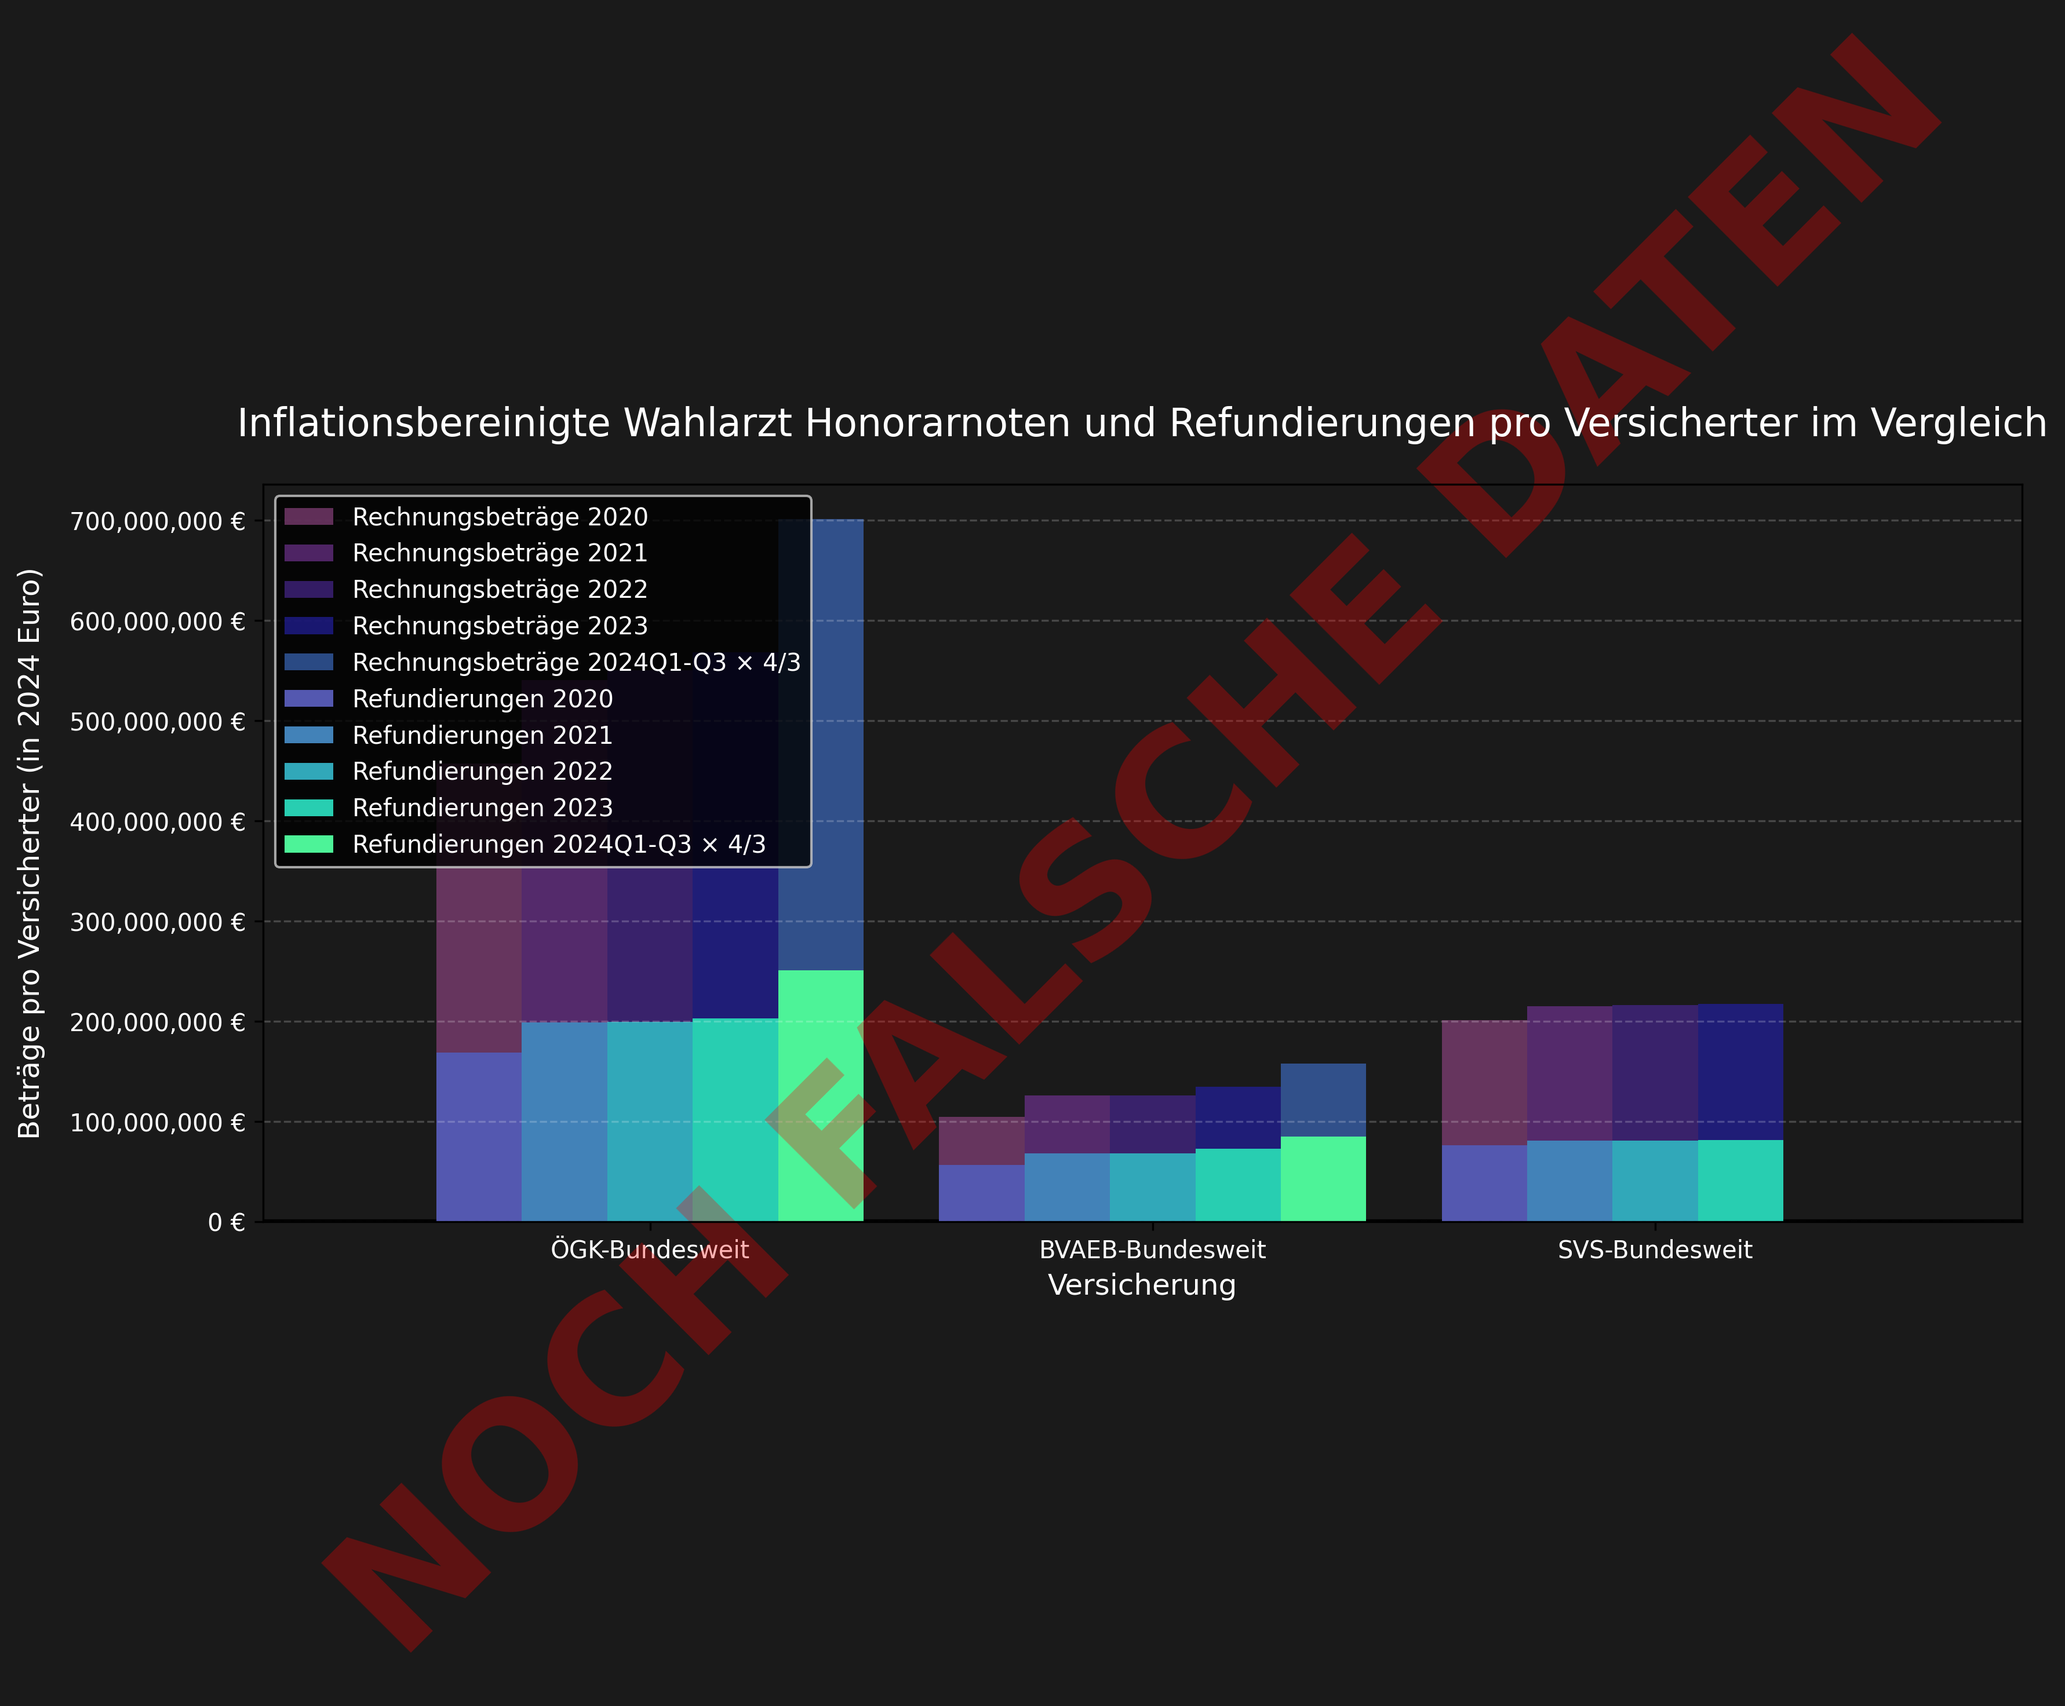
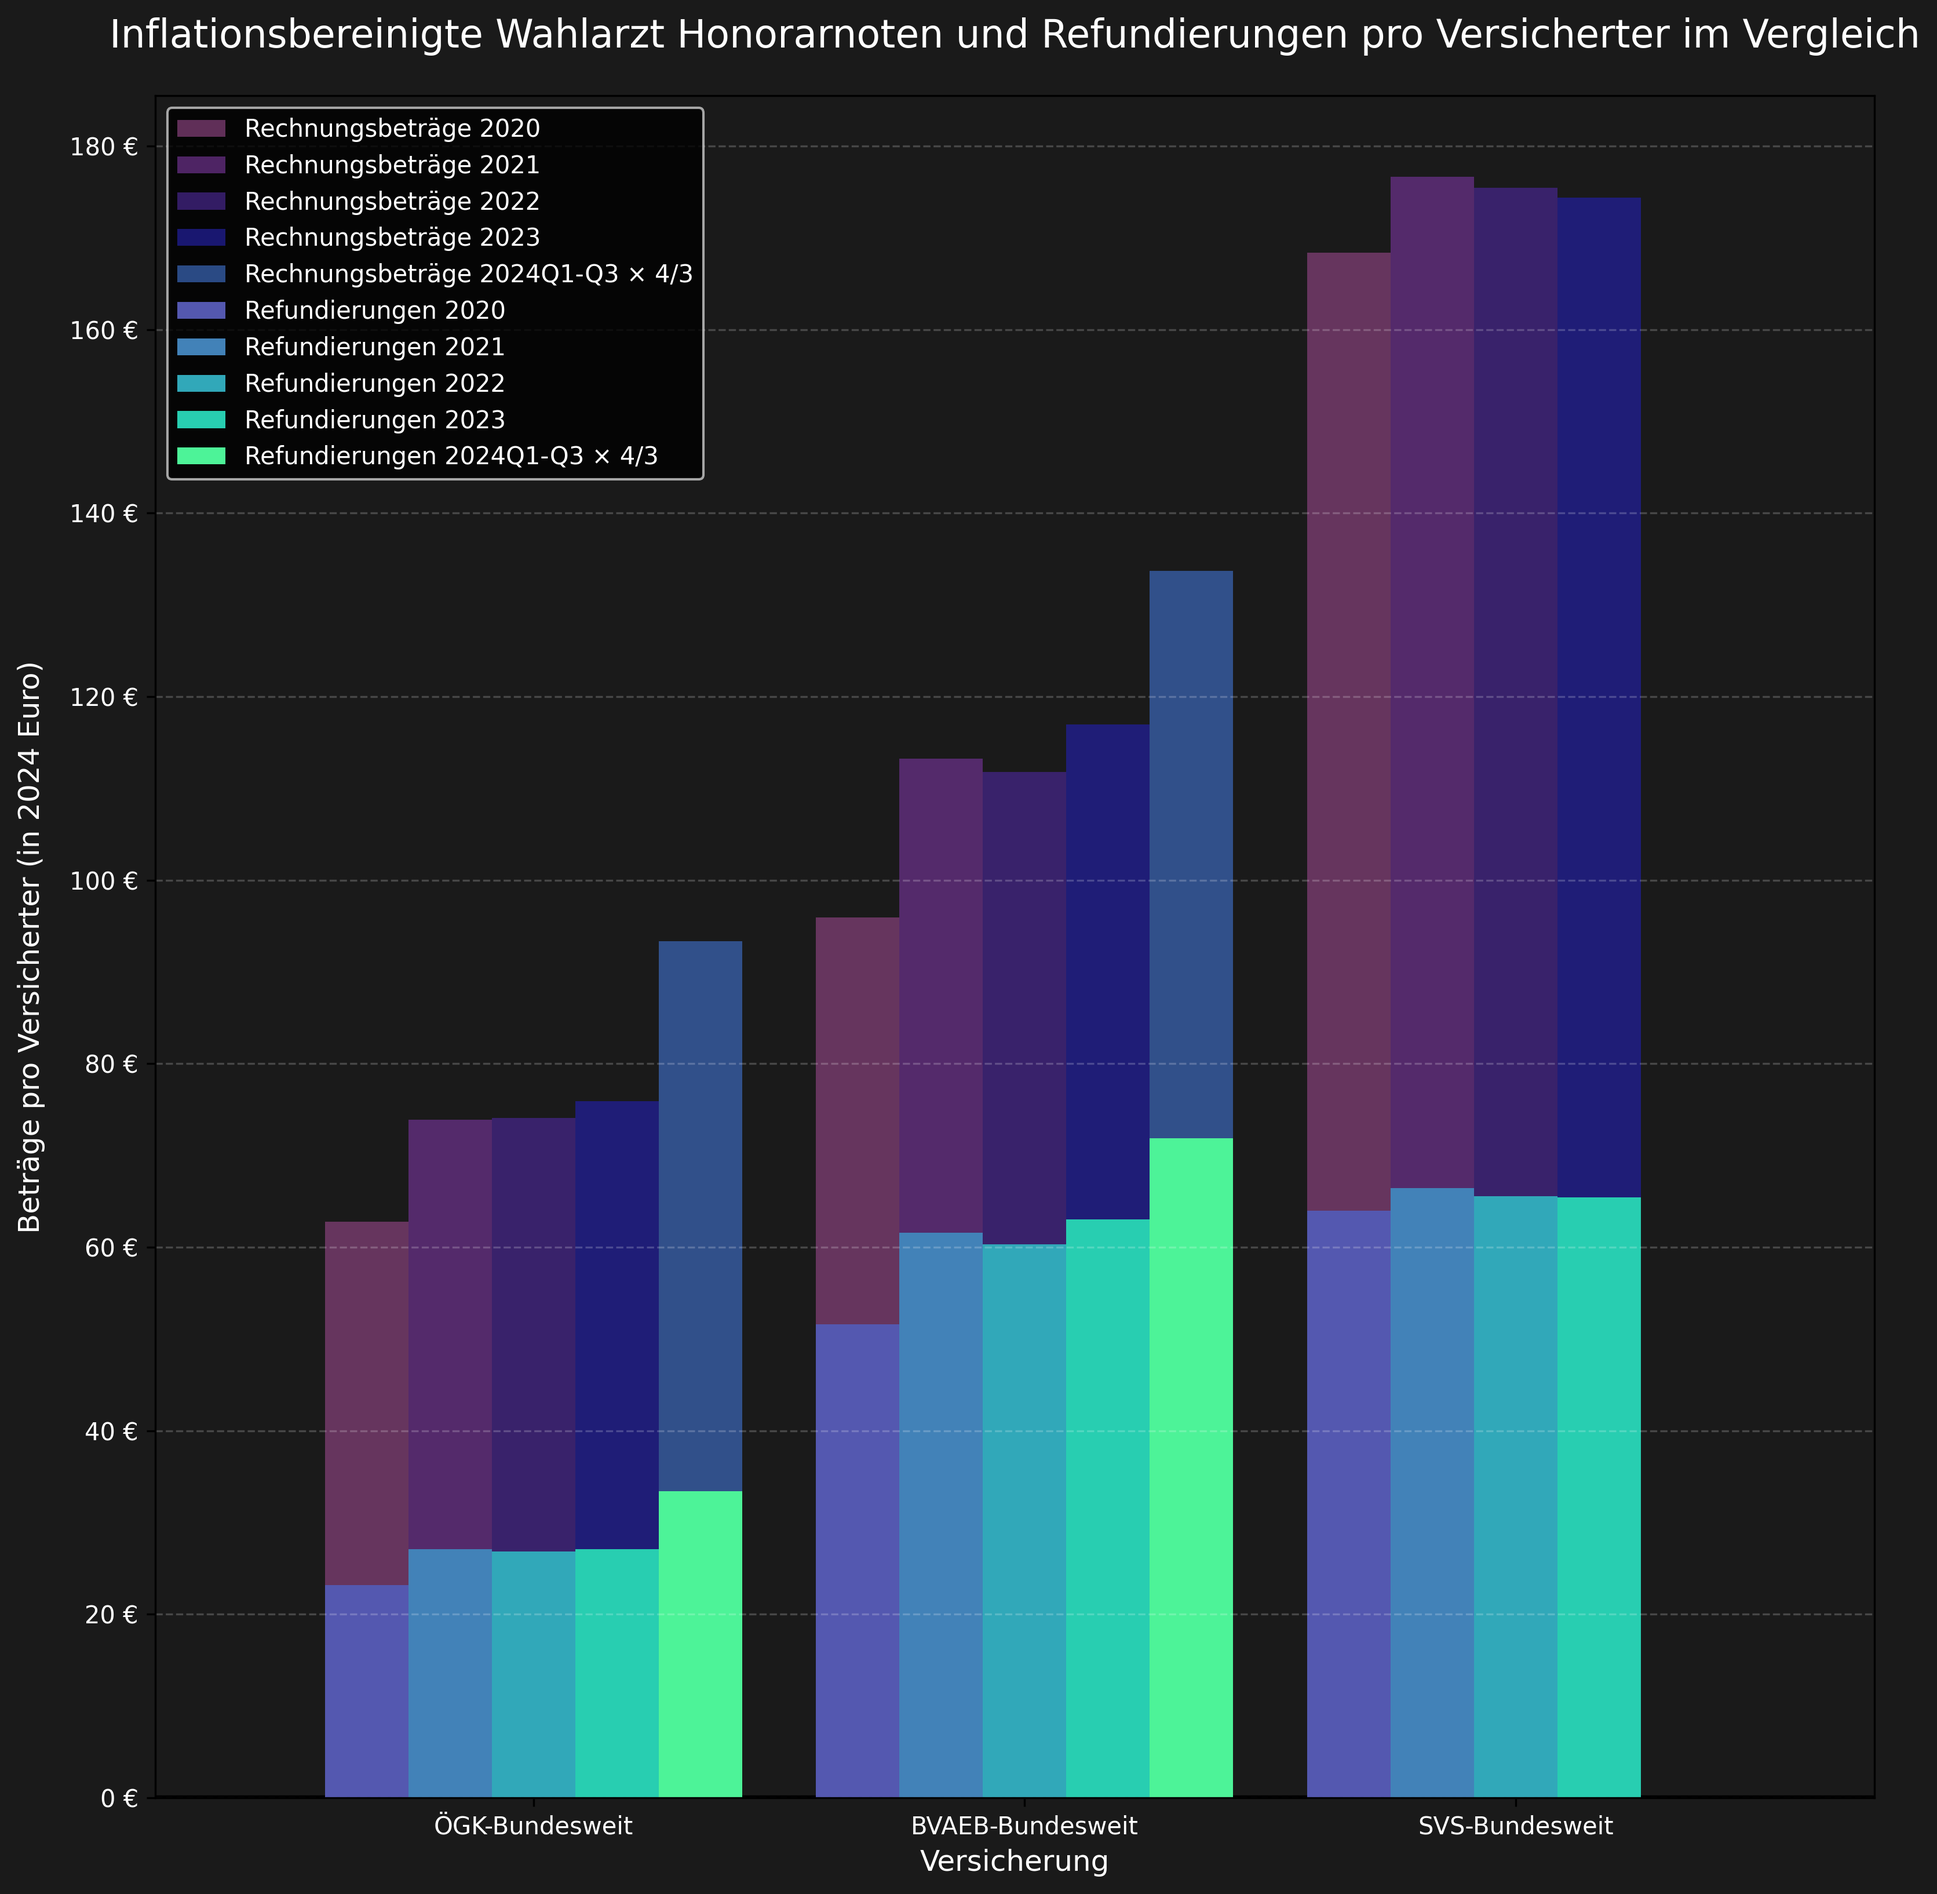
99% finished this plot

diff --git a/visualize/plot_insurance_comparison_weighted.py b/visualize/plot_insurance_comparison_weighted.py
@@ -26,202 +26,74 @@ VPI_DATA = {
     "2025": 136.8,
 }
 
+# All data from the respective Jahresergebnisse__.xlsx files.
 # Insured population data for each insurance provider
 INSURED_POPULATION = {
     "BVAEB": {
         "2020": {
-            "Wien": 174141,
-            "NÖ": 295949,
-            "Bgld": 49829,
-            "OÖ": 88499,
-            "Stmk": 198221,
-            "Ktn": 89240,
-            "Sbg": 87638,
-            "Tirol": 126532,
-            "Vbg": 54439,
-            "Gesamt": 1171842,
+            "Gesamt": 1091751,
         },
         "2021": {
-            "Wien": 174141,
-            "NÖ": 295949,
-            "Bgld": 49829,
-            "OÖ": 88499,
-            "Stmk": 198221,
-            "Ktn": 89240,
-            "Sbg": 87638,
-            "Tirol": 126532,
-            "Vbg": 54439,
-            "Gesamt": 1171842,
+            "Gesamt": 1109636,
         },
         "2022": {
-            "Wien": 174141,
-            "NÖ": 295949,
-            "Bgld": 49829,
-            "OÖ": 88499,
-            "Stmk": 198221,
-            "Ktn": 89240,
-            "Sbg": 87638,
-            "Tirol": 126532,
-            "Vbg": 54439,
-            "Gesamt": 1171842,
+            "Gesamt": 1128466,
         },
         "2023": {
-            "Wien": 174141,
-            "NÖ": 295949,
-            "Bgld": 49829,
-            "OÖ": 88499,
-            "Stmk": 198221,
-            "Ktn": 89240,
-            "Sbg": 87638,
-            "Tirol": 126532,
-            "Vbg": 54439,
-            "Gesamt": 1171842,
+            "Gesamt": 1150006,
         },
         "2024": {
-            "Wien": 174141,
-            "NÖ": 295949,
-            "Bgld": 49829,
-            "OÖ": 88499,
-            "Stmk": 198221,
-            "Ktn": 89240,
-            "Sbg": 87638,
-            "Tirol": 126532,
-            "Vbg": 54439,
-            "Gesamt": 1171842,
+            "Gesamt": 1177976,
         },
-        "2024Q1-Q3": lambda: {k: int(v) for k, v in INSURED_POPULATION["BVAEB"]["2024"].items()},
+        "2024Q1-Q3": lambda: {
+            k: int(v) for k, v in INSURED_POPULATION["BVAEB"]["2024"].items()
+        },
         "2025": lambda: {
             k: int(v * 1.008) for k, v in INSURED_POPULATION["BVAEB"]["2024"]().items()
         },
     },
     "ÖGK": {
         "2020": {
-            "Wien": 1733348,
-            "NÖ": 1245744,
-            "Bgld": 214327,
-            "OÖ": 1261102,
-            "Stmk": 997453,
-            "Ktn": 435932,
-            "Sbg": 466544,
-            "Tirol": 594466,
-            "Vbg": 329658,
             "Gesamt": 7278574,
         },
         "2021": {
-            "Wien": 1743335,
-            "NÖ": 1253590,
-            "Bgld": 217175,
-            "OÖ": 1269008,
-            "Stmk": 1002900,
-            "Ktn": 438725,
-            "Sbg": 466215,
-            "Tirol": 593720,
-            "Vbg": 329767,
             "Gesamt": 7314435,
         },
         "2022": {
-            "Wien": 1771026,
-            "NÖ": 1273182,
-            "Bgld": 221330,
-            "OÖ": 1284447,
-            "Stmk": 1015347,
-            "Ktn": 441801,
-            "Sbg": 474520,
-            "Tirol": 604751,
-            "Vbg": 333178,
             "Gesamt": 7419582,
         },
         "2023": {
-            "Wien": 1802340,
-            "NÖ": 1278271,
-            "Bgld": 223529,
-            "OÖ": 1292594,
-            "Stmk": 1020869,
-            "Ktn": 443213,
-            "Sbg": 478351,
-            "Tirol": 610168,
-            "Vbg": 335023,
             "Gesamt": 7484358,
         },
         "2024": {
-            "Wien": 1825483,
-            "NÖ": 1276395,
-            "Bgld": 223412,
-            "OÖ": 1292343,
-            "Stmk": 1021741,
-            "Ktn": 442232,
-            "Sbg": 479094,
-            "Tirol": 611390,
-            "Vbg": 334669,
             "Gesamt": 7506759,
         },
-        "2024Q1-Q3": lambda: {k: int(v) for k, v in INSURED_POPULATION["ÖGK"]["2024"].items()},
+        "2024Q1-Q3": lambda: {
+            k: int(v) for k, v in INSURED_POPULATION["ÖGK"]["2024"].items()
+        },
         "2025": lambda: {
             k: int(v * 1.008) for k, v in INSURED_POPULATION["ÖGK"]["2024"]().items()
         },
     },
     "SVS": {
         "2020": {
-            "Wien": 174141,
-            "NÖ": 295949,
-            "Bgld": 49829,
-            "OÖ": 88499,
-            "Stmk": 198221,
-            "Ktn": 89240,
-            "Sbg": 87638,
-            "Tirol": 126532,
-            "Vbg": 54439,
-            "Gesamt": 1171842,
+            "Gesamt": 1193401,
         },
         "2021": {
-            "Wien": 174141,
-            "NÖ": 295949,
-            "Bgld": 49829,
-            "OÖ": 88499,
-            "Stmk": 198221,
-            "Ktn": 89240,
-            "Sbg": 87638,
-            "Tirol": 126532,
-            "Vbg": 54439,
-            "Gesamt": 1171842,
+            "Gesamt": 1216431,
         },
         "2022": {
-            "Wien": 174141,
-            "NÖ": 295949,
-            "Bgld": 49829,
-            "OÖ": 88499,
-            "Stmk": 198221,
-            "Ktn": 89240,
-            "Sbg": 87638,
-            "Tirol": 126532,
-            "Vbg": 54439,
-            "Gesamt": 1171842,
+            "Gesamt": 1233186,
         },
         "2023": {
-            "Wien": 174141,
-            "NÖ": 295949,
-            "Bgld": 49829,
-            "OÖ": 88499,
-            "Stmk": 198221,
-            "Ktn": 89240,
-            "Sbg": 87638,
-            "Tirol": 126532,
-            "Vbg": 54439,
-            "Gesamt": 1171842,
+            "Gesamt": 1247231,
         },
         "2024": {
-            "Wien": 174141,
-            "NÖ": 295949,
-            "Bgld": 49829,
-            "OÖ": 88499,
-            "Stmk": 198221,
-            "Ktn": 89240,
-            "Sbg": 87638,
-            "Tirol": 126532,
-            "Vbg": 54439,
-            "Gesamt": 1171842,
+            "Gesamt": 1260118,
         },
-        "2024Q1-Q3": lambda: {k: int(v) for k, v in INSURED_POPULATION["SVS"]["2024"].items()},
+        "2024Q1-Q3": lambda: {
+            k: int(v) for k, v in INSURED_POPULATION["SVS"]["2024"].items()
+        },
         "2025": lambda: {
             k: int(v * 1.008) for k, v in INSURED_POPULATION["SVS"]["2024"]().items()
         },
@@ -285,7 +157,7 @@ def create_plot(bvaeb_file, oegk_file, svs_file, dark_mode=True, is_updated=Fals
 
     # Weight by insured population
     combined_df["Weight"] = combined_df.apply(
-        lambda row: get_population_for_year(row["Year"], row["Insurance"])["Gesamt"] / get_population_for_year(row["Year"], row["Insurance"])["Gesamt"], 
+        lambda row: get_population_for_year(row["Year"], row["Insurance"])["Gesamt"], 
         axis=1
     )
     combined_df["Rechnungsbeträge_weighted"] = combined_df["Rechnungsbeträge_adj"] / combined_df["Weight"]
@@ -300,7 +172,7 @@ def create_plot(bvaeb_file, oegk_file, svs_file, dark_mode=True, is_updated=Fals
         )
 
     # Create figure with smaller size
-    fig, ax = plt.subplots(figsize=(12, 8))
+    fig, ax = plt.subplots(figsize=(11, 11))
 
     # Set dark mode if enabled
     if dark_mode:
@@ -412,8 +284,6 @@ def create_plot(bvaeb_file, oegk_file, svs_file, dark_mode=True, is_updated=Fals
         )
         ylabel = "nicht erstattete Kosten pro Versicherter (in 2024 Euro)"
 
-    if is_updated:
-        title_prefix += " (Aktualisiert 2025)"
     plt.title(
         title_prefix,
         fontsize=16,
@@ -442,25 +312,27 @@ def create_plot(bvaeb_file, oegk_file, svs_file, dark_mode=True, is_updated=Fals
         ax.yaxis.set_major_locator(plt.AutoLocator())
     else:
         # For regular betraege plot, only positive values
-        ax.yaxis.set_major_locator(plt.MaxNLocator(steps=[10]))
+         ax.yaxis.set_major_locator(plt.MaxNLocator(steps=[1, 2, 5, 10], integer=True))
 
     # Add grid with appropriate opacity for each mode
     ax.grid(True, axis="y", linestyle="--", alpha=grid_alpha, color=text_color, zorder=1)
 
     # Add watermark
-    watermark_text = "NOCH FALSCHE DATEN"
-    watermark_color = "red" if dark_mode else "darkred"
-    watermark_alpha = 0.3
-    ax.text(0.5, 0.5, watermark_text, 
-            transform=ax.transAxes,
-            fontsize=72,
-            color=watermark_color,
-            alpha=watermark_alpha,
-            ha='center',
-            va='center',
-            rotation=45,
-            fontweight='bold',
-            zorder=2)
+    print_watermark = False
+    if print_watermark:
+        watermark_text = "NOCH FALSCHE DATEN"
+        watermark_color = "red" if dark_mode else "darkred"
+        watermark_alpha = 0.3
+        ax.text(0.5, 0.5, watermark_text, 
+                transform=ax.transAxes,
+                fontsize=72,
+                color=watermark_color,
+                alpha=watermark_alpha,
+                ha='center',
+                va='center',
+                rotation=45,
+                fontweight='bold',
+                zorder=2)
 
     # Add legend
     handles, labels = ax.get_legend_handles_labels()
